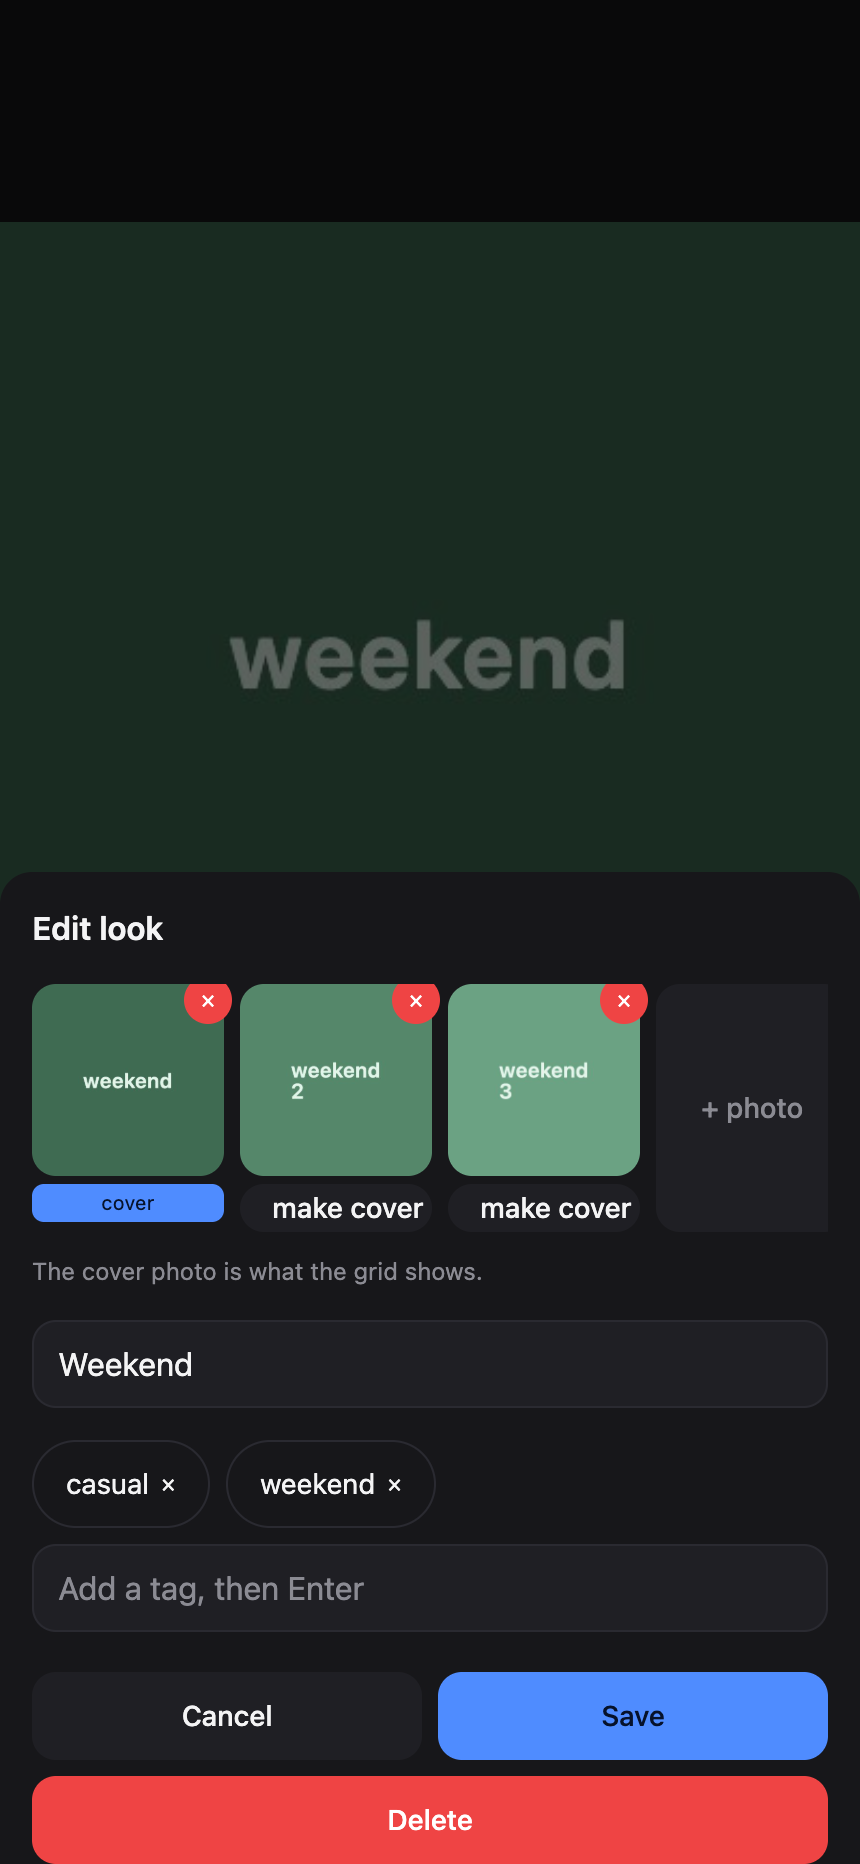
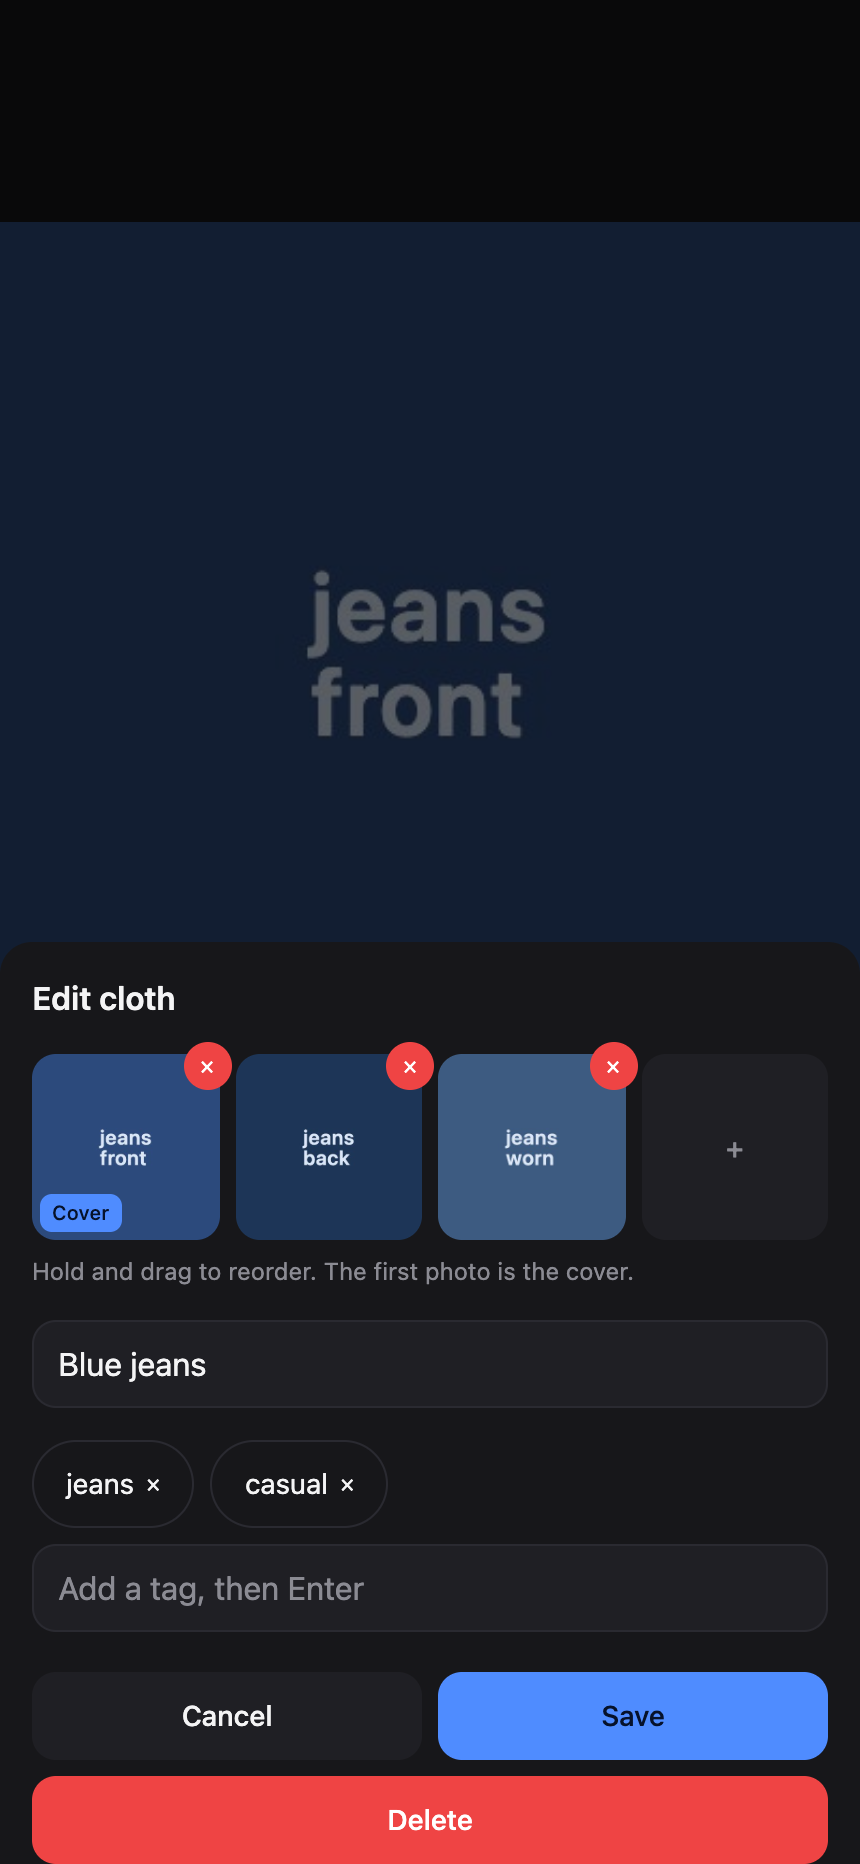
feat(closet-app): sort pill divider, docs and screenshots for reorder + sorting

diff --git a/apps/closet-app/src/client/Closet.tsx b/apps/closet-app/src/client/Closet.tsx
@@ -267,11 +267,21 @@ export default function Closet({ onLogout }: { onLogout: () => void }) {
             ))}
           </div>
 
-          {tab === 'clothes' ? (
-            <SortPill value={clothSort} options={CLOTH_SORTS} onOpen={() => setSortOpen(true)} />
-          ) : (
-            <SortPill value={lookSort} options={LOOK_SORTS} onOpen={() => setSortOpen(true)} />
-          )}
+          {/*
+            A rule between the two zones. Without it the chip row just appears
+            to run out mid-word behind the pill, which reads as a broken layout
+            rather than as "this scrolls, that does not".
+          */}
+          <div
+            className="shrink-0 self-stretch pl-2"
+            style={{ borderLeft: tabTags.length > 0 ? '1px solid var(--border)' : 'none' }}
+          >
+            {tab === 'clothes' ? (
+              <SortPill value={clothSort} options={CLOTH_SORTS} onOpen={() => setSortOpen(true)} />
+            ) : (
+              <SortPill value={lookSort} options={LOOK_SORTS} onOpen={() => setSortOpen(true)} />
+            )}
+          </div>
         </div>
       </header>
 

diff --git a/apps/closet-app/src/client/SortSheet.tsx b/apps/closet-app/src/client/SortSheet.tsx
@@ -24,8 +24,8 @@ export function SortPill<T extends string>({
       onClick={onOpen}
       aria-label={`Sort by ${current}. Change sorting.`}
     >
-      <span aria-hidden="true" style={{ color: 'var(--muted)' }}>
-        ⇅{' '}
+      <span aria-hidden="true" className="mr-1.5" style={{ color: 'var(--muted)' }}>
+        ⇅
       </span>
       {current}
     </button>

diff --git a/apps/closet-app/README.md b/apps/closet-app/README.md
@@ -17,9 +17,9 @@ Two tabs, mobile-first, one thumb.
 |---|---|
 | ![Clothes tab](docs/screenshots/clothes.png) | ![Looks tab](docs/screenshots/looks.png) |
 
-| Catalogue viewer | Editing the catalogue |
-|---|---|
-| ![Cloth catalogue](docs/screenshots/cloth-catalog.png) | ![Photo strip](docs/screenshots/edit-catalog.png) |
+| Catalogue viewer | Editing the catalogue | Sorting |
+|---|---|---|
+| ![Cloth catalogue](docs/screenshots/cloth-catalog.png) | ![Photo grid](docs/screenshots/edit-catalog.png) | ![Sort sheet](docs/screenshots/sort-sheet.png) |
 
 **Every cloth and every look is a catalogue** — it holds any number of photos
 (front, back, worn, different angles), up to 12. The first photo is the cover
@@ -38,10 +38,26 @@ and is what the grid tile shows.
   momentum and rubber-banding are the browser's own. Dots show the position.
   Buttons: Close, Edit, Delete. There is deliberately **no wear button here**,
   so browsing a catalogue can never change a count.
-- **Editing photos** — the edit sheet holds the ordered strip: `×` removes a
-  photo, **make cover** moves one to the front, `+ photo` adds (multi-select
-  supported). The viewer stays open behind the sheet, so saving drops you back
-  into the catalogue showing the new photos.
+- **Editing photos** — the edit sheet holds a drag-to-reorder grid: **hold and
+  drag** a thumbnail to rearrange, `×` removes one, `+` adds (multi-select
+  supported). The first tile is badged **Cover**, so "make this the cover" is
+  just "drag it to the front" — there is no separate cover control to disagree
+  with the order. The viewer stays open behind the sheet, so saving drops you
+  back into the catalogue showing the new photos.
+- **Sorting** — the pill on the right of the chip row shows the current
+  ordering and opens a sheet of options with a tick on the active one. It never
+  scrolls away with the chips, and the choice is remembered per tab in
+  `localStorage`.
+
+  | Tab | Options (default first) |
+  |---|---|
+  | Clothes | Most worn · Last worn · A → Z · Newest |
+  | Looks | Newest · Oldest · A → Z |
+
+  "Most worn" stays the default because that ordering *is* the wash cue — it is
+  why the app needs no wash limit. Ties break by name so the grid does not
+  reshuffle between loads. Never-worn items sort to the bottom of "Last worn",
+  and unnamed looks to the bottom of "A → Z".
 - **Undo** — every wear or wash shows a 10-second Undo bar so a one-handed
   mis-tap costs one tap to fix.
 - **Tags** — one shared, autocompleting vocabulary across both tabs. The chip

diff --git a/apps/closet-app/CLAUDE.md b/apps/closet-app/CLAUDE.md
@@ -13,6 +13,9 @@
 - **Only delete an R2 object when NO photo row references the key** (`unreferenced()` in `db.ts`). The same object could be attached twice; deleting on the first removal would blank the other item.
 - **Uploads happen on pick, before Save.** An abandoned sheet can leak an orphan object. That is the deliberate trade: holding blobs until Save loses the photo if the tab dies, which is worse on a phone.
 - **A look must have ≥1 photo (server-enforced on create AND patch); a cloth may have 0** and falls back to its initial letter.
+- **Reordering is drag-and-drop** (`PhotoGrid.tsx`, `@dnd-kit` — the same library `lists-app` uses). The thumbnail itself is the drag handle and needs `touch-none`, or the browser claims the gesture for scrolling and the drag silently never starts. Touch drag activates after a 180ms hold so a plain tap still reaches the `×`.
+- **Sorting is client-side only** (`sort.ts`). The server still returns clothes wears-DESC / looks created_at-DESC; the client re-orders. Sort functions must COPY before `.sort()` — the arrays come from component state.
+- **Sort preference is per tab in `localStorage`** (`closet.sort.clothes` / `closet.sort.looks`), read via a lazy `useState` initialiser. Reading storage during render trips `react-hooks/purity`; every access is try/caught because private mode throws.
 
 ## UI guardrails (SPA, plan 204 + the 2026-08-17 catalogue rework)
 
